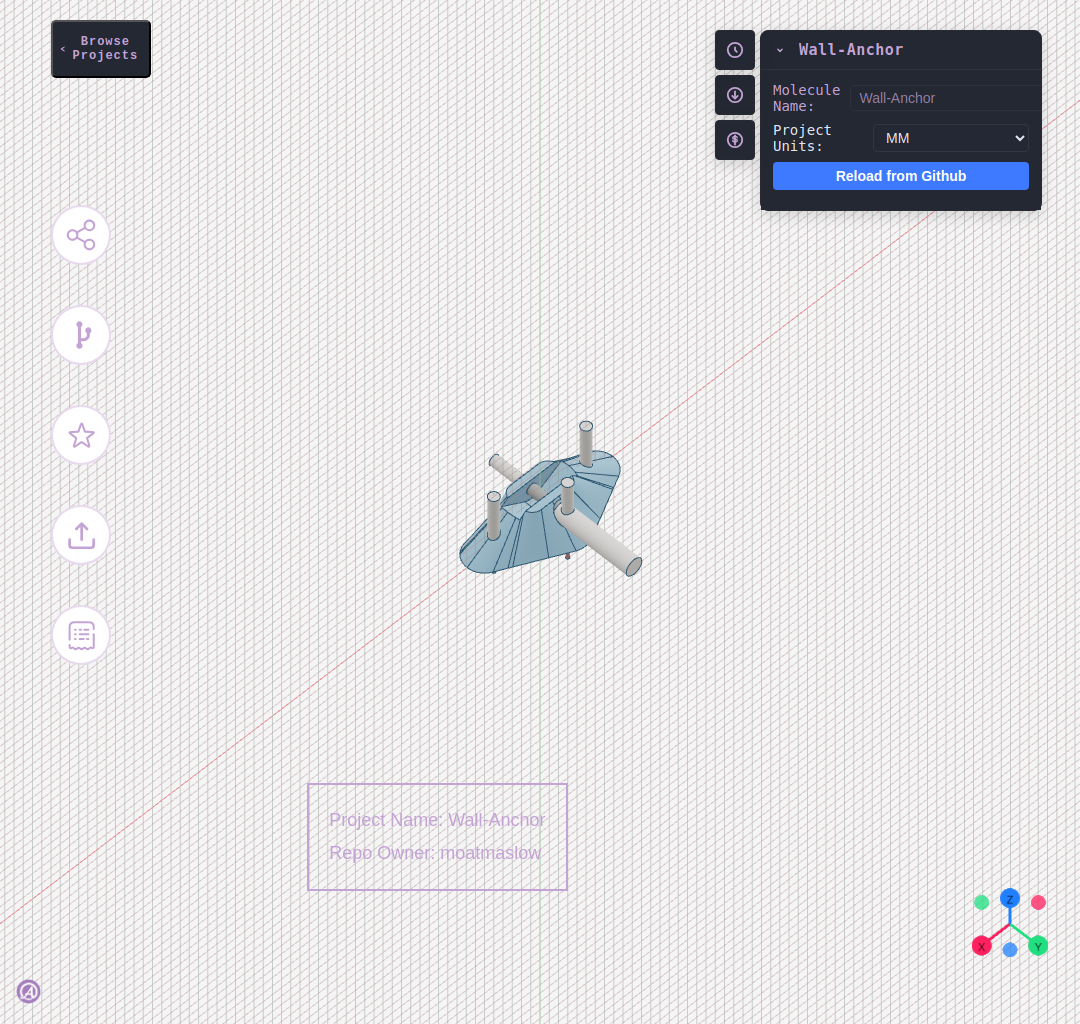
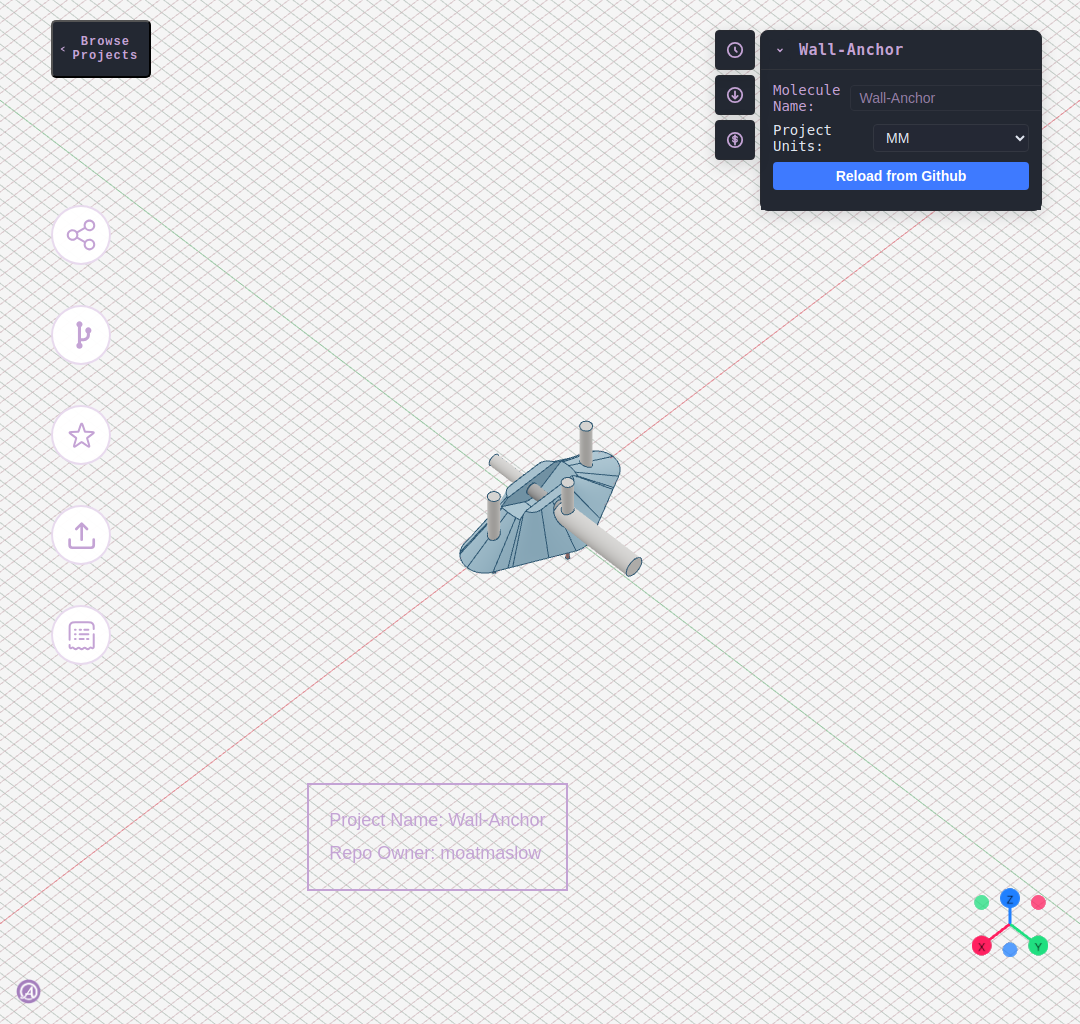
Fix grid to display on XY plane with proper color coding

Changed region(s): [[0.0, 0.0, 1.0, 1.0]]

diff --git a/src/components/render/ColoredGrid.jsx b/src/components/render/ColoredGrid.jsx
@@ -8,6 +8,9 @@ import * as THREE from "three";
  * - Lines parallel to Y-axis are tinted green
  * - The origin intersection is highlighted
  * 
+ * The grid is created in the XZ plane (Y=0) and then rotated by Math.PI/2 around X-axis
+ * to become the XY plane (Z=0 after rotation), matching replicad's Z-up coordinate system.
+ * 
  * This provides subtle visual cues about orientation without adding 3D elements.
  */
 const ColoredGrid = ({ 
@@ -26,40 +29,43 @@ const ColoredGrid = ({
     const divisions = gridSize / cellSize;
     
     // Create arrays to hold line vertices
-    const xAxisLines = []; // Lines parallel to X (running left-right)
-    const yAxisLines = []; // Lines parallel to Y (running front-back)
+    // Lines are created in XZ plane, then rotated to XY plane
+    const xAxisLines = []; // Lines parallel to X (running left-right after rotation)
+    const yAxisLines = []; // Lines parallel to Y (running front-back after rotation)
     const originXLine = []; // X-axis line through origin
-    const originYLine = []; // Y-axis line through origin
+    const originYLine = []; // Y-axis line through origin (Z-axis before rotation)
     
-    // Generate grid lines
+    // Generate grid lines in XZ plane (Y=0)
+    // After rotation by [Math.PI/2, 0, 0], this will become the XY plane
     for (let i = -divisions / 2; i <= divisions / 2; i++) {
       const pos = i * cellSize;
       const isSection = Math.abs(i % (sectionSize / cellSize)) === 0;
       const isOrigin = i === 0;
       
-      // Lines parallel to X-axis (running left-right, varying in Y)
+      // Lines parallel to X-axis (running left-right, varying in Z)
       if (isOrigin) {
         originXLine.push(
-          new THREE.Vector3(-halfSize, pos, 0),
-          new THREE.Vector3(halfSize, pos, 0)
+          new THREE.Vector3(-halfSize, 0, pos),
+          new THREE.Vector3(halfSize, 0, pos)
         );
       } else {
         xAxisLines.push(
-          new THREE.Vector3(-halfSize, pos, 0),
-          new THREE.Vector3(halfSize, pos, 0)
+          new THREE.Vector3(-halfSize, 0, pos),
+          new THREE.Vector3(halfSize, 0, pos)
         );
       }
       
-      // Lines parallel to Y-axis (running front-back, varying in X)
+      // Lines parallel to Z-axis (running front-back, varying in X)
+      // These will become Y-axis after rotation
       if (isOrigin) {
         originYLine.push(
-          new THREE.Vector3(pos, -halfSize, 0),
-          new THREE.Vector3(pos, halfSize, 0)
+          new THREE.Vector3(pos, 0, -halfSize),
+          new THREE.Vector3(pos, 0, halfSize)
         );
       } else {
         yAxisLines.push(
-          new THREE.Vector3(pos, -halfSize, 0),
-          new THREE.Vector3(pos, halfSize, 0)
+          new THREE.Vector3(pos, 0, -halfSize),
+          new THREE.Vector3(pos, 0, halfSize)
         );
       }
     }
